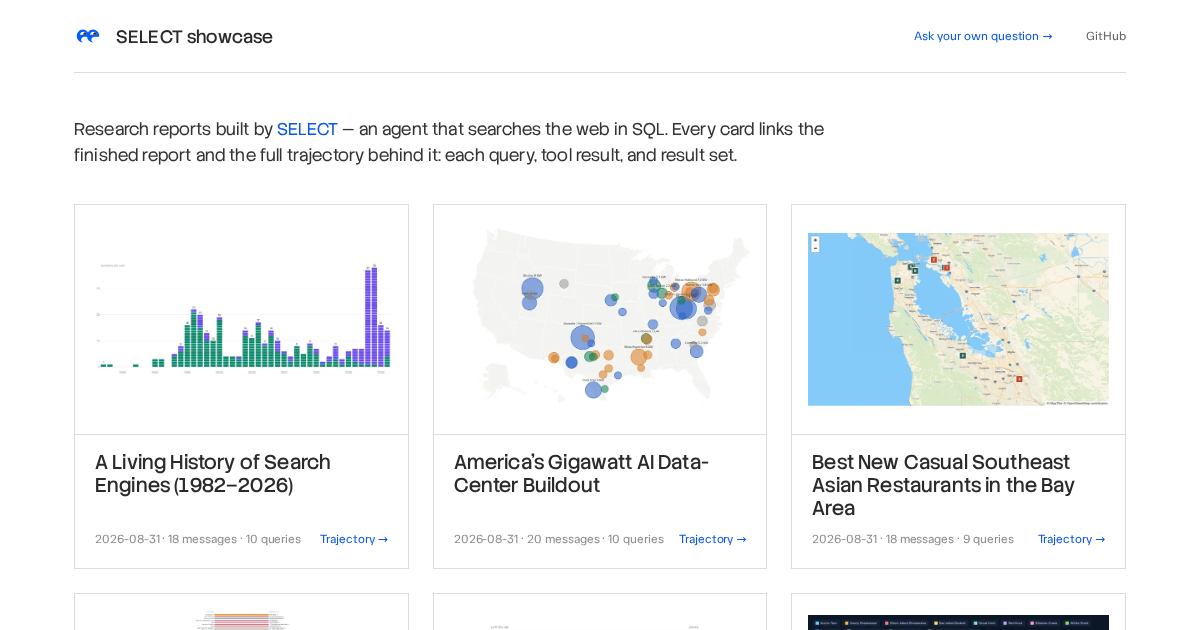
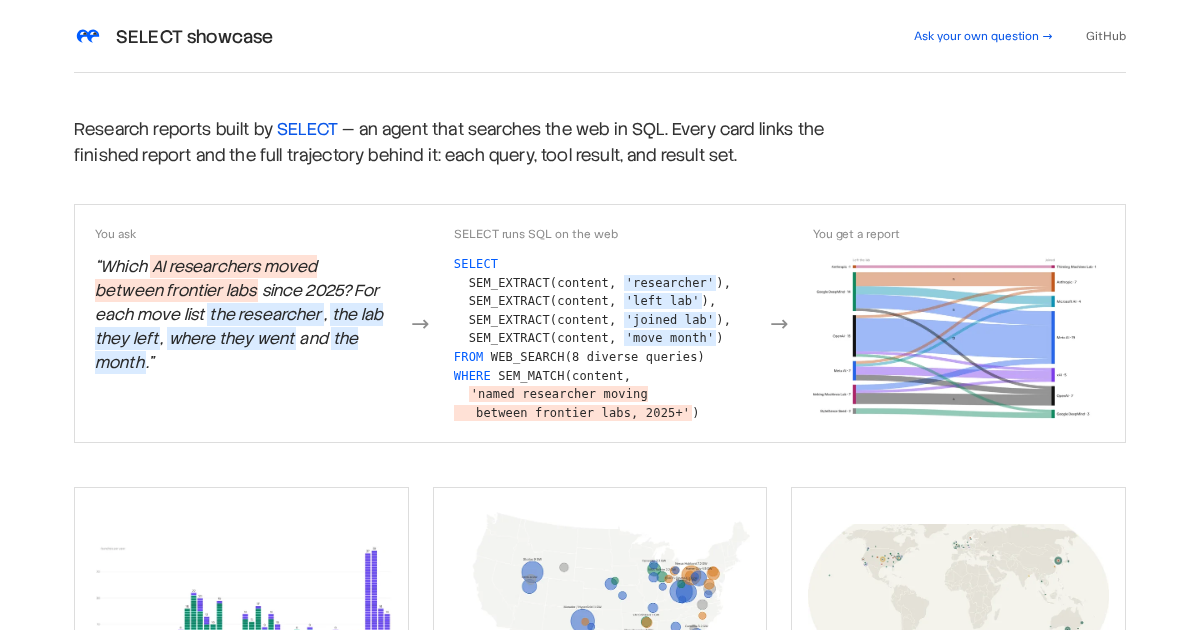
Index explainer: question to SQL to report
A three-panel strip under the intro shows the researcher-moves example:
the question, the SQL SELECT runs, and the report's Sankey. Matching
highlights tie the question's subject to SEM_MATCH (orange) and its
requested fields to the SEM_EXTRACT calls (blue).

diff --git a/scripts/build_site.py b/scripts/build_site.py
@@ -58,6 +58,23 @@ header.site a.gh{font-family:'TASA Orbiter',system-ui;font-size:12px;
   letter-spacing:-.004em;color:#646464;margin-left:20px}
 header.site a.ask{color:#0A57E8}
 .intro{max-width:760px;margin-bottom:36px;font-size:17px;color:#333}
+.how{display:flex;align-items:stretch;gap:0;border:1px solid #DDDDDD;
+  margin-bottom:44px;background:#fff}
+.how-step{flex:1;min-width:0;padding:20px;display:flex;flex-direction:column;gap:12px}
+.how-step .label{margin:0}
+.how-prompt{font-size:16px;line-height:1.5;font-style:italic;color:#2A2A2A}
+.how-step pre{margin:0;background:none;border:0;padding:0;font-size:12px;line-height:1.55;
+  overflow-x:auto}
+.how-step pre .kw{color:#005CFF}
+.how-arrow{align-self:center;color:#8D8D8D;font-size:22px;padding:0 4px}
+.how-shot{flex:1;display:flex;align-items:center}
+.how-shot img{max-width:100%;max-height:220px;display:block}
+mark.hl-a{background:#FFE1D6;color:#2A2A2A;padding:1px 2px}
+mark.hl-b{background:#DAEBFF;color:#2A2A2A;padding:1px 2px}
+@media (max-width:900px){
+  .how{flex-direction:column}
+  .how-arrow{transform:rotate(90deg);padding:2px 0}
+}
 h1.small{font-size:28px;line-height:1.05}
 h1{font-weight:400;font-size:52px;line-height:.9;letter-spacing:0;
   margin-bottom:20px;max-width:900px}
@@ -383,6 +400,51 @@ def build_report(slug: str) -> dict:
     }
 
 
+EXPLAINER_SLUG = "frontier-ai-researcher-moves-since-2025"
+
+EXPLAINER_PROMPT = (
+    "“Which <mark class='hl-a'>AI researchers moved between frontier labs</mark>"
+    " since 2025? For each move list <mark class='hl-b'>the researcher</mark>,"
+    " <mark class='hl-b'>the lab they left</mark>,"
+    " <mark class='hl-b'>where they went</mark> and"
+    " <mark class='hl-b'>the month</mark>.”"
+)
+
+EXPLAINER_SQL = (
+    "<span class='kw'>SELECT</span>\n"
+    "  SEM_EXTRACT(content, <mark class='hl-b'>'researcher'</mark>),\n"
+    "  SEM_EXTRACT(content, <mark class='hl-b'>'left lab'</mark>),\n"
+    "  SEM_EXTRACT(content, <mark class='hl-b'>'joined lab'</mark>),\n"
+    "  SEM_EXTRACT(content, <mark class='hl-b'>'move month'</mark>)\n"
+    "<span class='kw'>FROM</span> WEB_SEARCH(8 diverse queries)\n"
+    "<span class='kw'>WHERE</span> SEM_MATCH(content,\n"
+    "  <mark class='hl-a'>'named researcher moving\n"
+    "   between frontier labs, 2025+'</mark>)"
+)
+
+
+def explainer(entries: list[dict]) -> str:
+    example = next((e for e in entries if e["slug"] == EXPLAINER_SLUG), None)
+    if example is None or example["thumb_size"] is None:
+        return ""
+    shot = (
+        f'<a href="{example["report_url"]}">'
+        f'<img src="{example["slug"]}/thumb.webp?v={example["thumb_version"]}" alt=""></a>'
+    )
+    return (
+        '<div class="how">'
+        f'<div class="how-step"><p class="label">You ask</p>'
+        f'<p class="how-prompt">{EXPLAINER_PROMPT}</p></div>'
+        '<div class="how-arrow">&rarr;</div>'
+        f'<div class="how-step"><p class="label">SELECT runs SQL on the web</p>'
+        f"<pre>{EXPLAINER_SQL}</pre></div>"
+        '<div class="how-arrow">&rarr;</div>'
+        f'<div class="how-step"><p class="label">You get a report</p>'
+        f'<div class="how-shot">{shot}</div></div>'
+        "</div>"
+    )
+
+
 def build_index(entries: list[dict]) -> None:
     cards = []
     for e in sorted(entries, key=lambda e: e["created_at"], reverse=True):
@@ -414,6 +476,7 @@ def build_index(entries: list[dict]) -> None:
         f' <a href="{SELECT_URL}">SELECT</a> — an agent that searches the web in SQL.'
         " Every card links the finished report and the full trajectory behind it:"
         " each query, tool result, and result set.</p>"
+        f"{explainer(entries)}"
         f'<div class="cards">{"".join(cards)}</div>'
     )
     (DOCS / "index.html").write_text(
